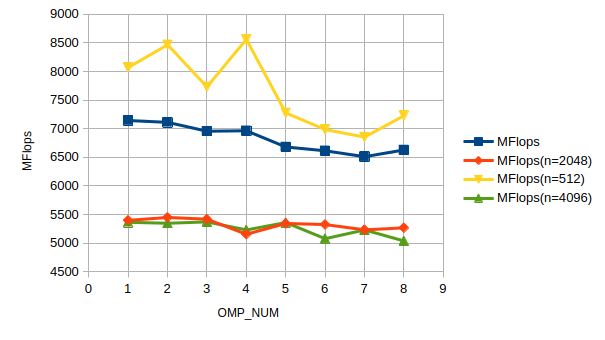
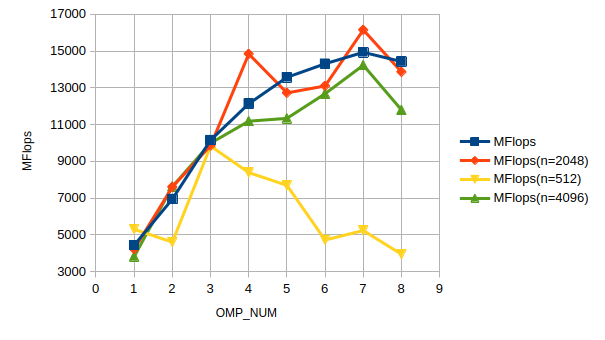
use omp

diff --git a/travaux_diriges/tp1/sources/ProdMatMat.cpp b/travaux_diriges/tp1/sources/ProdMatMat.cpp
@@ -10,12 +10,13 @@
 namespace {
 void prodSubBlocks(int iRowBlkA, int iColBlkB, int iColBlkA, int szBlock,
                    const Matrix &A, const Matrix &B, Matrix &C) {
+  // #pragma omp parallel for
   for (int j = iColBlkB; j < std::min(B.nbCols, iColBlkB + szBlock); j++)
     for (int k = iColBlkA; k < std::min(A.nbCols, iColBlkA + szBlock); k++)
       for (int i = iRowBlkA; i < std::min(A.nbRows, iRowBlkA + szBlock); ++i)
         C(i, j) += A(i, k) * B(k, j);
 }
-const int szBlock = 512;
+const int szBlock = 1024;
 } // namespace
 
 Matrix operator*(const Matrix &A, const Matrix &B) {

diff --git a/travaux_diriges/tp1/sources/README.md b/travaux_diriges/tp1/sources/README.md
@@ -102,16 +102,16 @@ Ainsi, dans la permutation `j,k,i`, la variable qui change le plus souvent est i
 
 `make TestProduct.exe && OMP_NUM_THREADS=8 ./TestProduct.exe 1024`
 
-| OMP_NUM | MFlops  | MFlops(n=2048) | MFlops(n=512) | MFlops(n=4096) |
-| ------- | ------- | -------------- | ------------- | -------------- |
-| 1       | 7142.27 | 5395.81        | 8068.48       | 5362.13        |
-| 2       | 7110.69 | 5447.11        | 8467.02       | 5345.9         |
-| 3       | 6955.71 | 5417.31        | 7730.97       | 5369.84        |
-| 4       | 6963.14 | 5153.35        | 8561.53       | 5228.69        |
-| 5       | 6680.09 | 5341.49        | 7276.03       | 5357.67        |
-| 6       | 6613.53 | 5322.82        | 6983.66       | 5076.28        |
-| 7       | 6510.1  | 5230.89        | 6852.23       | 5229.06        |
-| 8       | 6627.81 | 5265.54        | 7226.9        | 5036.55        |
+| OMP_NUM | MFlops   | MFlops(n=2048) | MFlops(n=512) | MFlops(n=4096) |
+| ------- | -------- | -------------- | ------------- | -------------- |
+| 1       | 4 438.17 | 4 222.92       | 5 303.32      | 3 822.43       |
+| 2       | 6 946.9  | 7 604.75       | 4 603.71      | 7 626.4        |
+| 3       | 10 153.7 | 9 855.08       | 9 831.91      | 9 989.92       |
+| 4       | 12 135.7 | 14 841.4       | 8 387.07      | 11 182.8       |
+| 5       | 13 571.8 | 12 725.6       | 7 689.66      | 11 339.4       |
+| 6       | 14 308.6 | 13 102.8       | 4 720.54      | 12 679.2       |
+| 7       | 14 930.6 | 16 147.7       | 5 234.69      | 14 232         |
+| 8       | 14 426.8 | 13 865.5       | 3 944.23      | 11 796         |
 
 *Tracer les courbes de speedup (pour chaque valeur de n), discuter les résultats.*
 
@@ -119,20 +119,20 @@ On obtient les courbes suivantes :
 
 ![courbes question 3 et 4](ex1_q3.png)
 
-On remarque qu'à partir de 4, les performances diminuent. Cela est sûrement dû à une saturation de la bande passante du fait des différents threads qui essaient d'accéder à la mémoire en même temps.
+On remarque que pour toutes les tailles de matrices, le nombre d'opérations par seconde augmente (suivant une courbe qui ressemble à un logarithme) avec le parallélisme, excepté pour une taille de matrice de 512. Pour cette dimension, les performances chutent après 3, probablement parce que l'accès concurrent n'est pas optimal pour les petites dimensions.
 
 ### 5 - Produit par blocs
 
 `make TestProduct.exe && ./TestProduct.exe 1024`
 
-| szBlock | MFlops  | MFlops(n=2048) | MFlops(n=512) | MFlops(n=4096) |
-| ------- | ------- | -------------- | ------------- | -------------- |
-| 32      | 7203.63 | 6933.03        | 5951.44       | 6707.97        |
-| 64      | 8163.87 | 8020.68        | 7563.76       | 6876.04        |
-| 128     | 7794.91 | 6734           | 7219.98       | 5742.93        |
-| 256     | 7920.5  | 7678.64        | 7365.66       | 6116.13        |
-| 512     | 7032.53 | 7162.45        | 7581.16       | 6604.03        |
-| 1024    | 5237.32 | 4765.95        | 7636.81       | 3821.67        |
+| szBlock | MFlops   | MFlops(n=2048) | MFlops(n=512) | MFlops(n=4096) |
+| ------- | -------- | -------------- | ------------- | -------------- |
+| 32      | 7 203.63 | 6 933.03       | 5 951.44      | 6 707.97       |
+| 64      | 8 163.87 | 8 020.68       | 7 563.76      | 6 876.04       |
+| 128     | 7 794.91 | 6 734          | 7 219.98      | 5 742.93       |
+| 256     | 7 920.5  | 7 678.64       | 7 365.66      | 6 116.13       |
+| 512     | 7 032.53 | 7 162.45       | 7 581.16      | 6 604.03       |
+| 1024    | 5 237.32 | 4 765.95       | 7 636.81      | 3 821.67       |
 
 *Discuter les résultats.*
 
@@ -141,16 +141,16 @@ On constate que le passage d'une taille de blocks de 32 à 64 augmente les perfo
 ### 6 - Bloc + OMP
 
 
-| szBlock | OMP_NUM | MFlops  | MFlops(n=2048) | MFlops(n=512) | MFlops(n=4096) |
-| ------- | ------- | ------- | -------------- | ------------- | -------------- |
-| 1024    | 1       | 6725.49 | 6058.91        | 7962.14       | 5060.07        |
-| 1024    | 8       | 6408.   | 6353.12        | 7257.47       | 5351.71        |
-| 512     | 1       | 7967.41 | 8097.72        | 7514.1        | 6158.58        |
-| 512     | 8       | 7104.71 | 8078.97        | 6798.3        | 6417.03        |
+| szBlock | OMP_NUM | MFlops   | MFlops(n=2048) | MFlops(n=512) | MFlops(n=4096) |
+| ------- | ------- | -------- | -------------- | ------------- | -------------- |
+| 1024    | 1       | 4 390.35 | 4 398.76       | 5 137.94      | 4 065.65       |
+| 1024    | 8       | 4 501.39 | 7 103.52       | 2 143.5       | 13 378.6       |
+| 512     | 1       | 6 148.47 | 6 480.19       | 5 343.09      | 5 332.55       |
+| 512     | 8       | 8 563.33 | 19 587.8       | 2 352.61      | 19 296.3       |
 
 *Discuter les résultats.*
 
-On constate que l'augmentation de la parallélisation devient intéressante pour des tailles de blocks supérieures à 512.
+On constate que l'augmentation de la parallélisation devient intéressante pour des tailles de blocks supérieures à 512 (comme précédemment). La parallélisation associée à l'approche par blocks fournit autrement de meilleures performances que les cas précédents.
 
 ### Comparaison avec BLAS, Eigen et numpy
 
